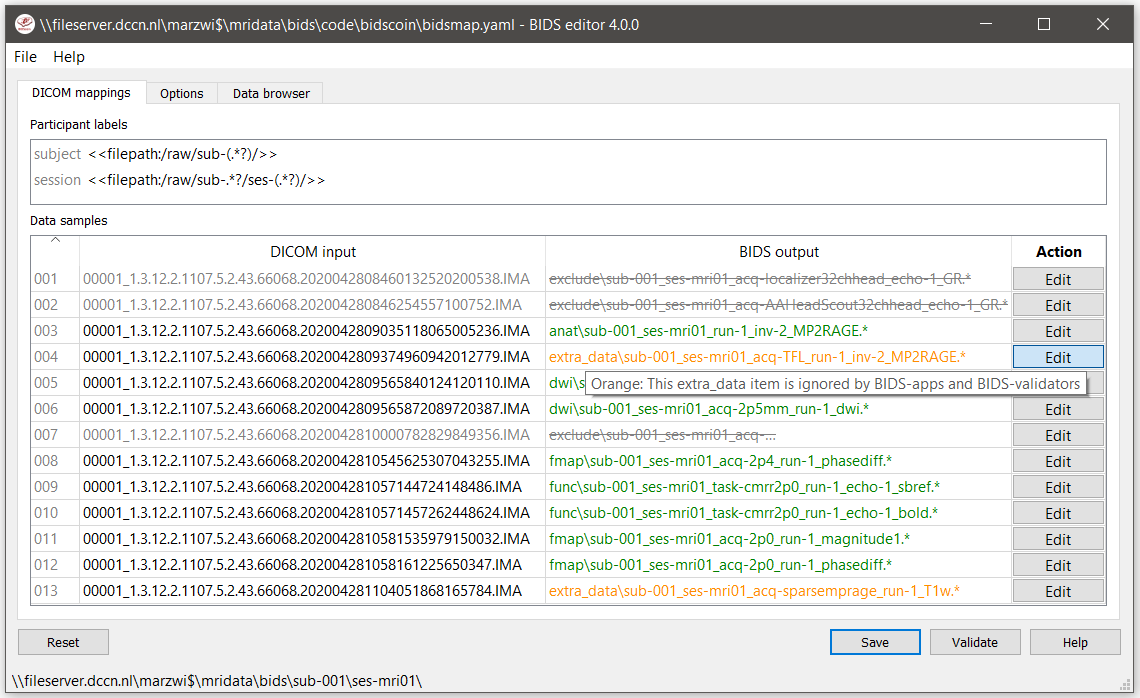
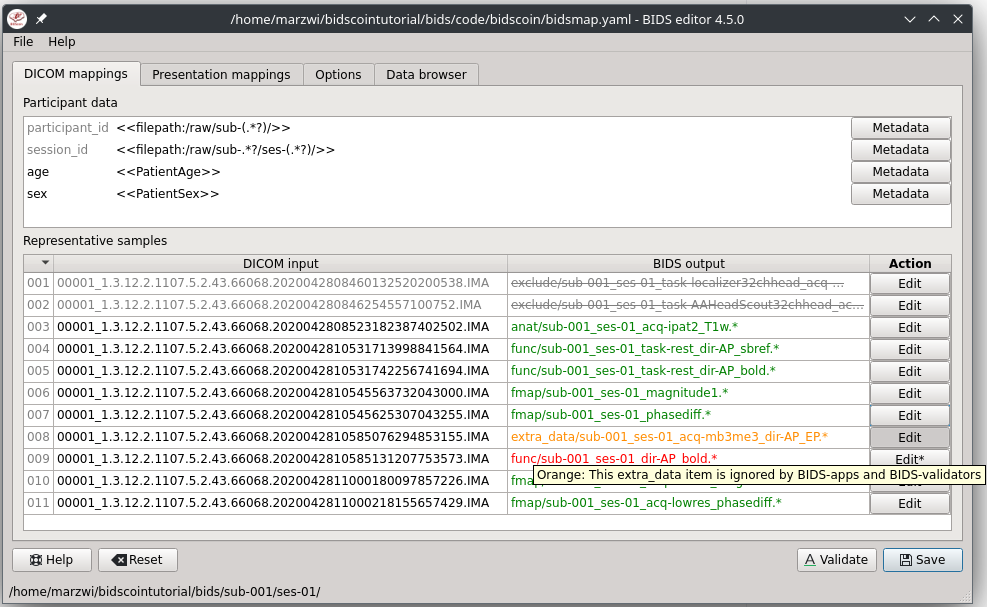
Updated docs and figure

diff --git a/docs/screenshots.rst b/docs/screenshots.rst
@@ -13,7 +13,7 @@ The bidseditor
 
 .. figure:: ./_static/bidseditor_main.png
 
-   The bidseditor main window with an overview of the data types in the source data (left column) with a preview of the BIDS output names (right column). The green or red color indicates whether manual editing of the BIDS-mapping is necessary, while the strikeout text indicates that the data type will not be converted, which is useful for handling irrelevant data. The user can edit the ``subject`` and ``session`` property values if needed (``session`` can be left empty to be omitted) and the result is immediately reflected in the preview. Different tabs represent different data formats in the source dataset, i.e. DICOM and PAR, which are represented as separate sections in the bidsmap. In addition, there is a tab to edit the study specific options and a tab in which the user can browse the organization of the source data and inspect the data.
+   The bidseditor main window with an overview of the data types in the source data (left column) with a preview of the BIDS output names (right column). The green or red color indicates whether manual editing of the BIDS-mapping is necessary, while the strikeout text indicates that the data type will not be converted, which is useful for handling irrelevant data. The user can edit the ``particpant_id`` and ``session_id`` values if needed (``session_id`` can be left empty to be omitted) and the result is immediately reflected in the preview. Different tabs represent different data formats in the source dataset, i.e. DICOM and Presentation, which are represented as separate sections in the bidsmap. In addition, there is a tab to edit the study specific options and a tab in which the user can browse the organization of the source data and inspect the data.
 
 .. figure:: ./_static/bidseditor_edit_tooltip.png
 

diff --git a/docs/workflow.rst b/docs/workflow.rst
@@ -150,7 +150,7 @@ As shown below, the main window of the bidseditor opens with separate tabs for e
 
 .. figure:: ./_static/bidseditor_main.png
 
-   The main window with the ``DICOM mappings`` tab, an ``Options`` tab and a ``Data browser`` tab. The selected ``DICOM mappings`` tab shows an overview of how DICOM source data types (left) are mapped to BIDS output data (right). The BIDScoin settings used for this study can be adjusted in the `Options <./options.html>`__ tab and the ``Data browser`` tab can be used to inspect the source data structure.
+   The main window with a ``DICOM mappings`` tab, a ``Presentation mappings`` tab, an ``Options`` tab and a ``Data browser`` tab. The selected ``DICOM mappings`` tab shows an overview of how DICOM source data types (left) are mapped to BIDS output data (right). Note the use of colors of the output names and the associated pop-up help window that emerges when hoovering the mouse. The BIDScoin settings used for this study can be adjusted in the `Options <./options.html>`__ tab and the ``Data browser`` tab can be used to inspect the source data structure.
 
 .. tip::
    If your participant_id/session_id filepath regular expression fails to parse the subject or session label, try prepending (a part of) the sourcefolder path, e.g. if your data is in ``/project/sourcedata/s001/..`` and your subject prefix is ``s``, try ``<<filepath:/sourcedata/s(.*?)/>>`` for extracting the ``001`` subject label. This is especially important if your subject folders have no or a very short prefix.
